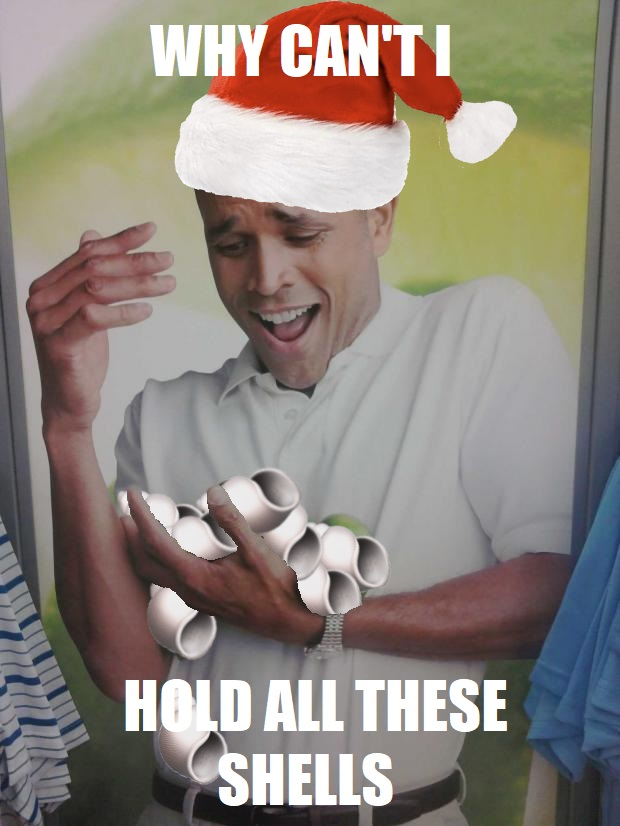
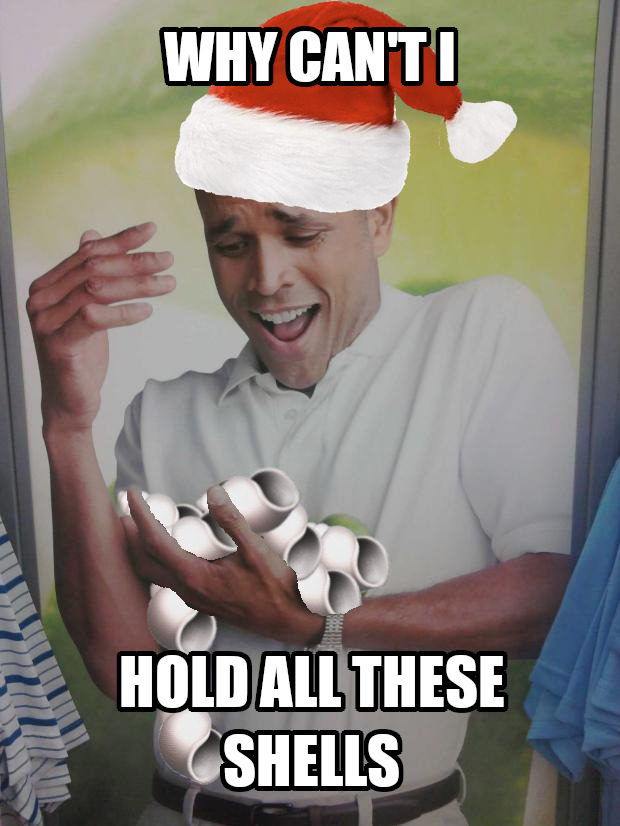
updated image, alt text, text, sponsors, etc.

Changed region(s): [[0.1839, 0.7869, 0.8274, 0.9988], [0.2452, 0.0303, 0.7661, 0.1211]]

diff --git a/_posts/2021-12-15-h0h0h0day-challenge-exchange.md b/_posts/2021-12-15-h0h0h0day-challenge-exchange.md
@@ -10,22 +10,22 @@ date_long_fr: mercredi le 15 décembre 2021
 date_en: December 15th 2021
 date_long_en: Wednesday December 15th 2021
 description_fr: |
-    Pour la première fois depuis février 2020, MontréHack retourne *en personne*! Préparez un petit challenge et venez faire un CTF amical à l'Amère à Boire avec nous!
+    Pour la première fois depuis février 2020, MontréHack retourne *en personne*! Préparez un petit challenge et venez faire un CTF amical à l'Amère à Boire avec nous ou encore à distance sur Twitch!
     Au menu:
     * Un :triangular_flag_on_post: CTF
-    * De la :pizza: pizza
-    * Des :beer: consommations
+    * De la :pizza: pizza (avec option végane)
+    * Des :beer: consommations (avec options sans alcool)
     * Des :family: vraies personnes
 
-    _EN PERSONNE: PLACES LIMITÉES, BILLET OBLIGATOIRE_. [Achetez votre billet (5$)](INSÉRER LIEN EVENTBRITE).
+    _EN PERSONNE: PLACES LIMITÉES, BILLET OBLIGATOIRE_. [Achetez votre billet (5$)](https://www.eventbrite.ca/e/219608634337) (ouverture des places le 30 novembre à midi)
 
     Avant:
     * :ballot_box_with_check: Faites un challenge
-      * Court et simple ([exemples de 2019](https://github.com/montrehack/challenges/tree/master/2019-12-18_h0h0h0/challenges))
+      * Court et simple (exemples de [2019](https://github.com/montrehack/challenges/tree/master/2019-12-18_h0h0h0/challenges) ou [2020](https://github.com/montrehack/h0h0h0day-ctfcli-2020))
       * La démonstration de la solution devrait prendre max 30 minutes
-      * Ce n'est pas obligatoire, mais fortement encouragé.
+      * Ce n'est pas obligatoire, mais fortement encouragé
     * :package: Packagez-le
-      * [Suivez la spécification de ctfcli](https://github.com/CTFd/ctfcli/blob/master/ctfcli/spec/challenge-example.yml) ([Plus d'exemples](https://github.com/CTFd/ctfcli/tree/master/ctfcli/templates))
+      * [Suivez la spécification de ctfcli](https://github.com/CTFd/ctfcli/blob/master/ctfcli/spec/challenge-example.yml) (plus d'exemples: [h0h0h0day-2020](https://github.com/montrehack/h0h0h0day-ctfcli-2020) ou [upstream](https://github.com/CTFd/ctfcli/tree/master/ctfcli/templates))
       * On peut hoster des fichiers ou de l'infra (Dockerfile ou docker-compose), vous pouvez hoster aussi
       * Dites-nous si vous êtes intéressés à le résoudre live!
     * :incoming_envelope: Envoyez-le nous sur [Discord](https://discord.gg/4qfFwPX) sur #challenge-deposit. Date limite: Lundi 13 Décembre à 20h EST.
@@ -37,31 +37,29 @@ description_fr: |
     * Se commettre en diffusant live sur Twitch ou en personne!
     * Cadeaux sous forme de livraison de pizza!
 
-    Un merci spécial à [NSec](https://nsec.io) pour leur soutien financier pour cet événement :blue_heart:
-
     Le concept de l'échange de défis est inspiré par des membres de la communauté du Cegep de Rosemont et de la DCI.
 description_en: |
-    à traduire
+    todo
 tools_fr: 
   - (en personne) Votre billet Eventbrite
-  - (en personne) Votre preuve de vaccination Covid québécoise (2 doses)
+  - (en personne) Votre preuve de vaccination contre la COVID-19 Québécoise (2 doses)
   - (en personne) Votre masque (pendant les déplacements)
   - (en personne) Votre ordinateur portable CHARGÉ.
   - Votre boîte à outils habituelle
-  - Votre réserve de boisson festive habituelle
   - Votre bonne humeur
+  - (à distance) Votre réserve de boisson festive habituelle
 tools_en: 
   - (in person) Your eventbrite ticket
-  - (in person) Your Quebec Covid vaccination proof (2 doses)
+  - (in person) Your Quebec COVID-19 vaccination proof (2 doses)
   - (in person) Your mask (when moving)
   - (in person) Your CHARGED laptop
   - Your usual toolbox
-  - A reserve of your favorite drinks
   - Your good mood
+  - (remote) A reserve of your favorite drinks
 presented_by_fr: Défis créés et présentés par vous!
 presented_by_en: Challenges created and presented by all of us!
 featured_img: /images/21-12_h0h0h0day.jpg
-featured_img_alt: h0h0h0day-special-covid
+featured_img_alt: "Why can't I hold all these shells!?"
 #challenge_assets:
 #  - name: Challenge executable
 #    url: https://github.com/montrehack/challenges/raw/master/2020-10-25_defcon-b3s23/challenge/b3s23
@@ -87,7 +85,7 @@ featured_img_alt: h0h0h0day-special-covid
 
 The next edition of Montrehack will be held on {{ page.date_long_en }}.
 
-![{{ page.featured_img_alt }}]({{ page.featured_img }})
+![{{ page.featured_img_alt }}]({{ page.featured_img }}#centered)
 
 {{ page.description_en }}
 
@@ -147,7 +145,7 @@ This edition is over. Here are the archived assets:
 
 ## {{ page.title }}
 
-![{{ page.featured_img_alt }}]({{ page.featured_img }})
+![{{ page.featured_img_alt }}]({{ page.featured_img }}#centered)
 
 {{ page.description_fr }}
 
@@ -201,10 +199,15 @@ Cette édition est terminé, voici les archives:
 {{ page.presented_by_fr }}
 
 
-
 <hr/>
 ### Sponsors // Partenaires
 
+This edition of MontréHack was made possible by
+
 [![NorthSec](/images/nsec_logo.png)](https://nsec.io/)
+
+Infrastructure provided by
+
+[![GoSecure](/images/sponsor_gosecure.png)](https://gosecure.net/)
 
 Interested to sponsor or present a challenge? [Contact us here](https://docs.google.com/forms/d/e/1FAIpQLSecc0vfe3pIwMJjIBCYW4G43ZwtagwVESu_qHKnglnBc3R3ww/viewform?usp=sf_link).
